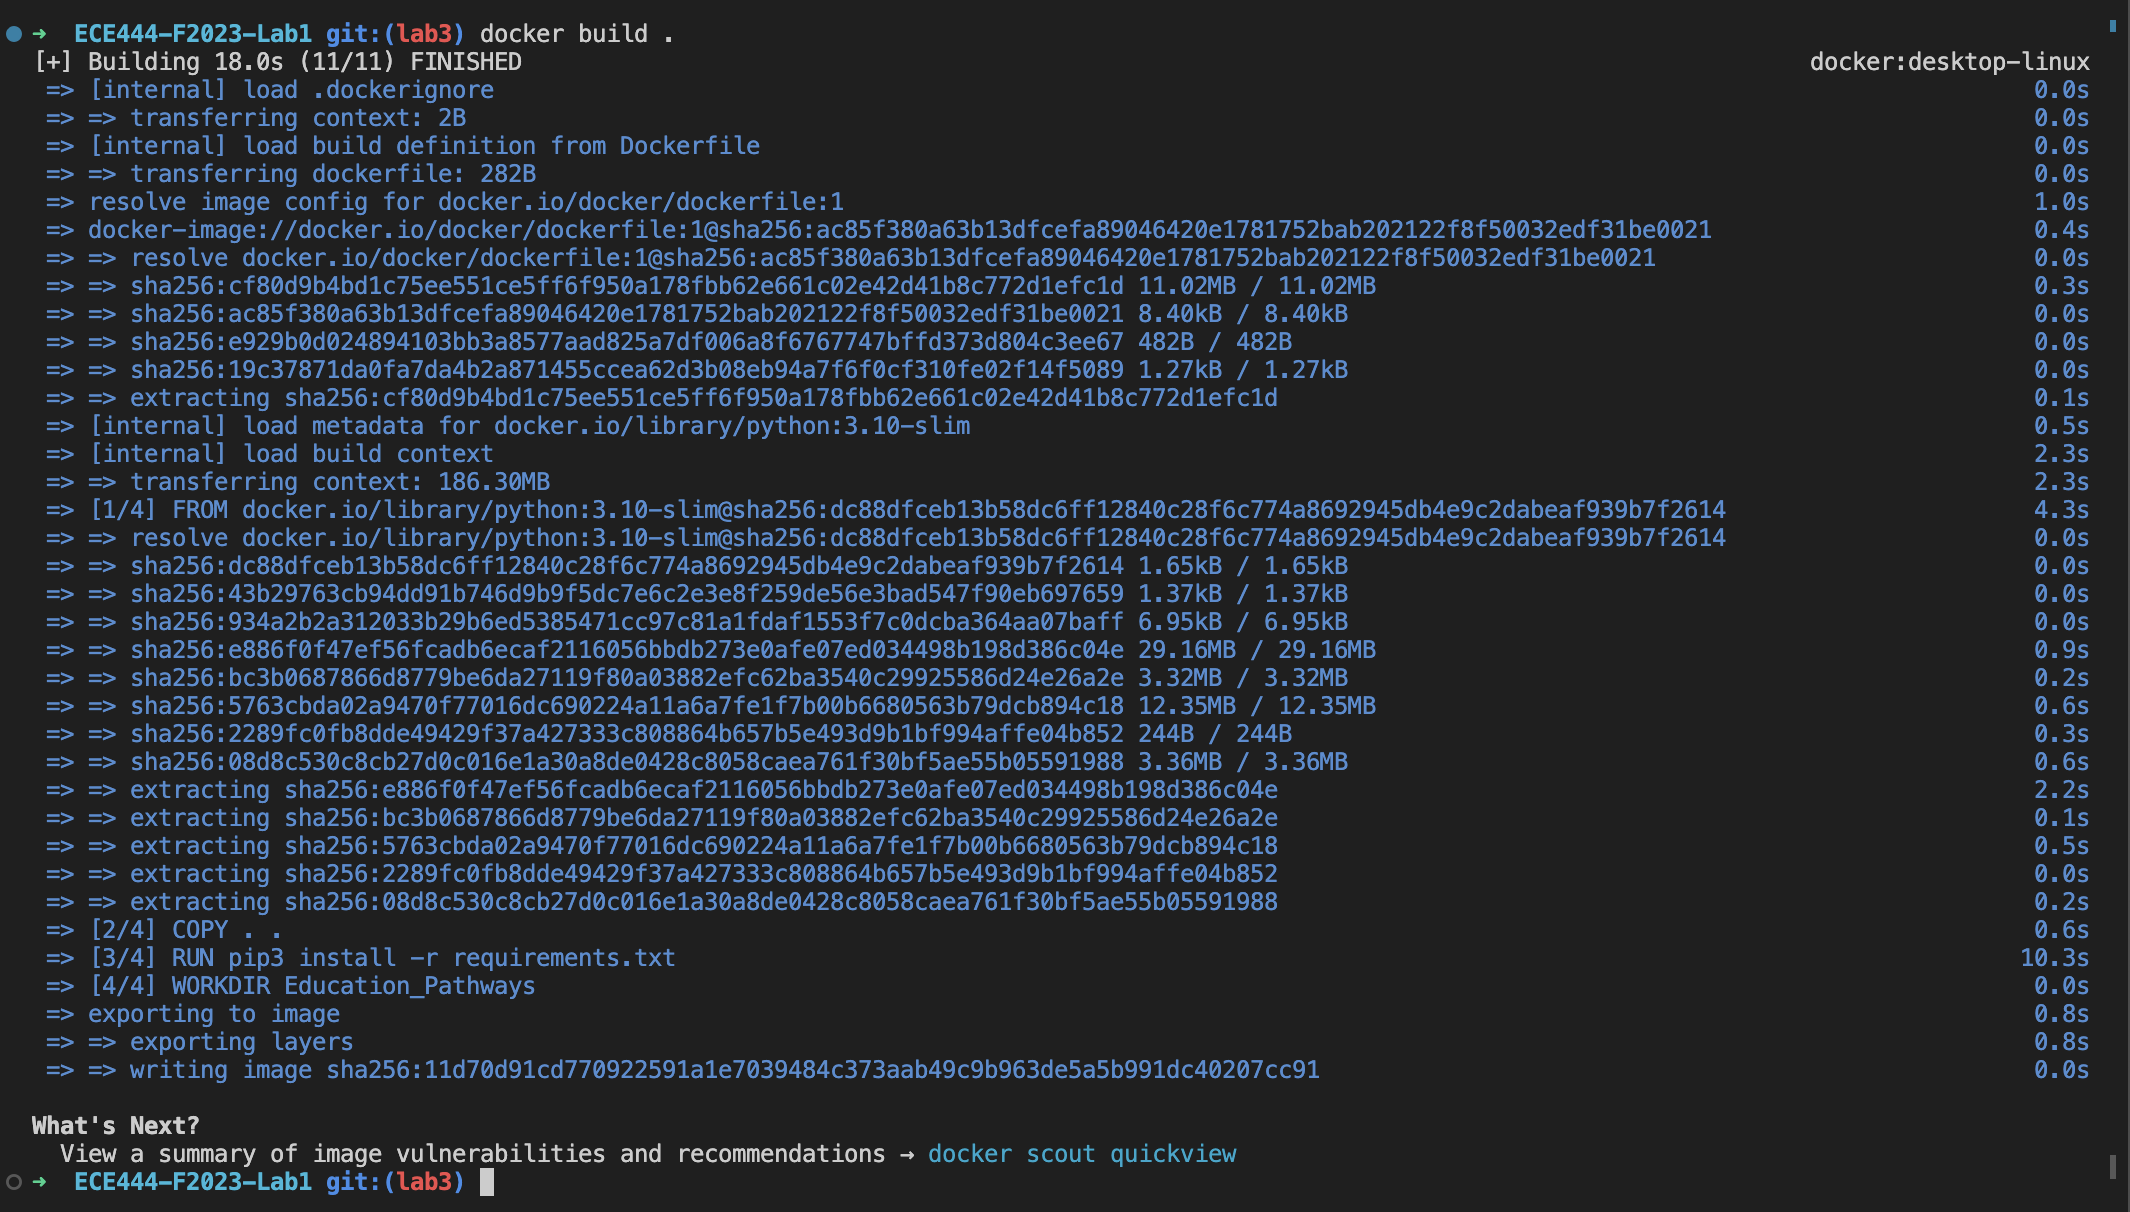
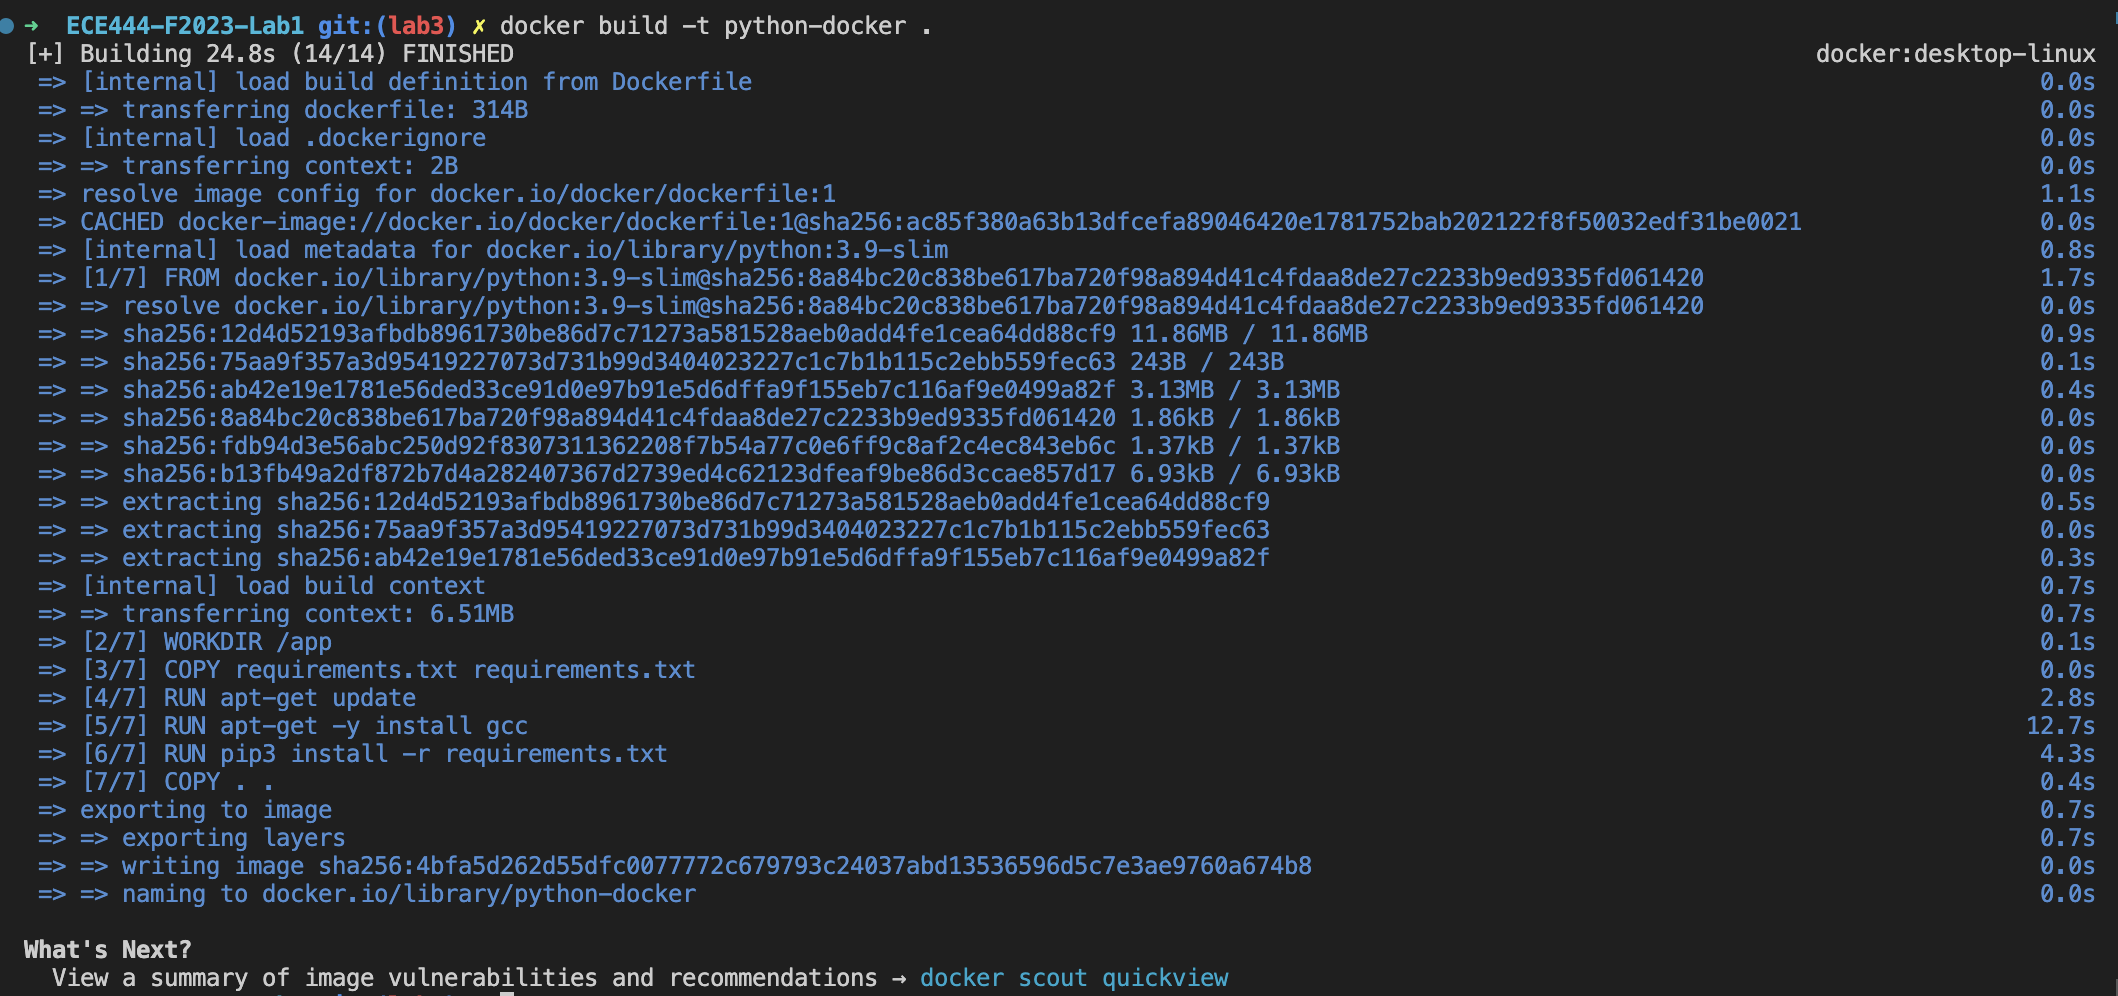
activity 4 changes + readme

Changed region(s): [[0.0, 0.0, 0.8414, 1.0], [0.8414, 0.0, 1.0, 0.996], [0.3428, 0.0, 0.4363, 0.0311]]

diff --git a/README.md b/README.md
@@ -20,5 +20,8 @@ git repo copied from https://github.com/ECE444-2022Fall/Assignment_1_starter_tem
 ## Activity 4
 ### docker build command message 
 ![image6](ActivityScreenshots/image6.png)
-### docker run 
+### docker run and log information indicating running
+### used 3000 instead, 5000 was not available 
 ![image7](ActivityScreenshots/image7.png)
+### website running on local host 3000
+![image9](ActivityScreenshots/image9.png)
